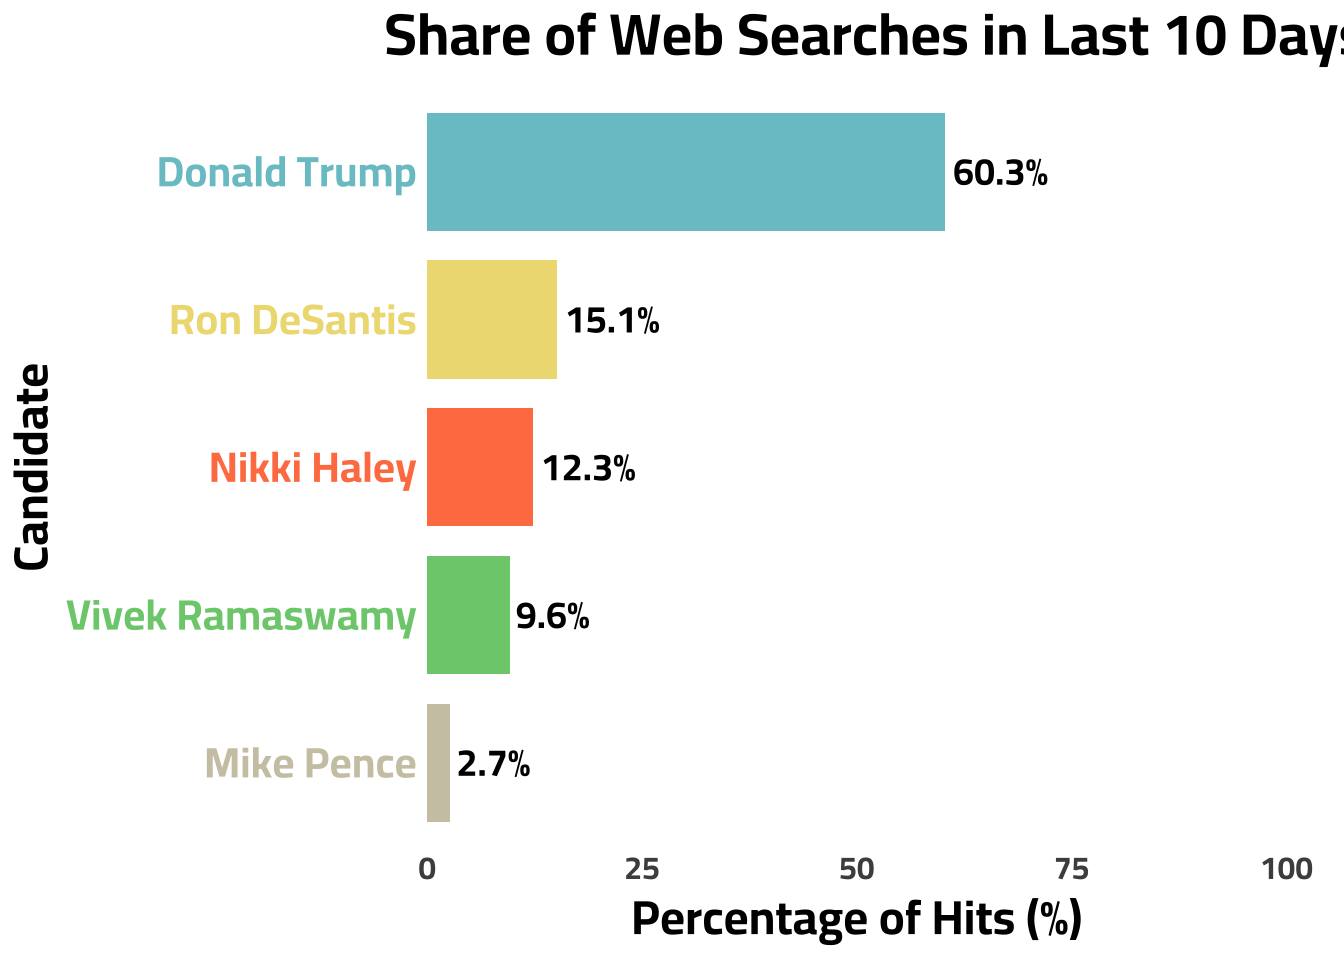
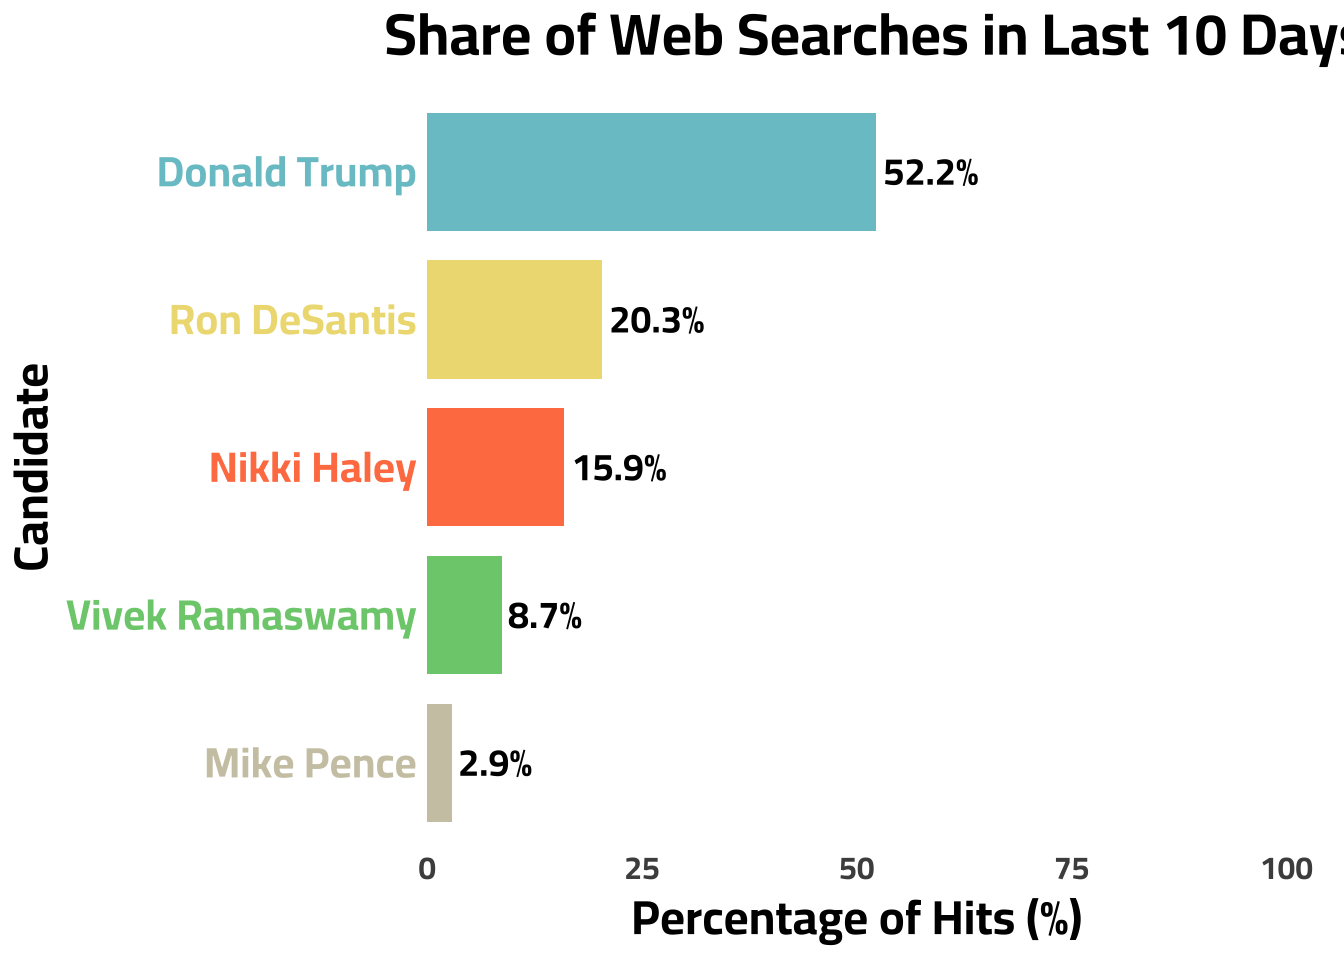
added disqus to resume post

diff --git a/_site/blog.html b/_site/blog.html
@@ -178,7 +178,7 @@ ul.task-list li input[type="checkbox"] {
 
 <div class="quarto-listing quarto-listing-container-default" id="listing-listing">
 <div class="list quarto-listing-default">
-<div class="quarto-post image-right" data-index="0" data-categories="Google Trends,Data Journalism,Politics,CICD" data-listing-date-sort="1696377600000" data-listing-file-modified-sort="1697373179184" data-listing-date-modified-sort="NaN" data-listing-reading-time-sort="7">
+<div class="quarto-post image-right" data-index="0" data-categories="Google Trends,Data Journalism,Politics,CICD" data-listing-date-sort="1696399200000" data-listing-file-modified-sort="1696406618792" data-listing-date-modified-sort="NaN" data-listing-reading-time-sort="7">
 <div class="thumbnail">
 <p><a href="./posts/primary_stream/index.html"> <img src="././about_files/primary_1.png" class="thumbnail-image"> </a></p>
 </div>
@@ -215,7 +215,7 @@ Oct 4, 2023
 </a>
 </div>
 </div>
-<div class="quarto-post image-right" data-index="1" data-categories="CICD,Quarto" data-listing-date-sort="1694044800000" data-listing-file-modified-sort="1697373179181" data-listing-date-modified-sort="NaN" data-listing-reading-time-sort="8">
+<div class="quarto-post image-right" data-index="1" data-categories="CICD,Quarto" data-listing-date-sort="1694066400000" data-listing-file-modified-sort="1696404983537" data-listing-date-modified-sort="NaN" data-listing-reading-time-sort="8">
 <div class="thumbnail">
 <p><a href="./posts/cicd_primary/index.html"> <img src="https://external-content.duckduckgo.com/iu/?u=https%3A%2F%2Fwww.adictosaltrabajo.com%2Fwp-content%2Fuploads%2F2020%2F10%2Fandroid-github-actions-setup-image-35b6a79fea4a7289acb6796cd4ad05b4.png&amp;f=1&amp;nofb=1&amp;ipt=b02a4ecfb6e2d666f35916b643a6f3e9907e880252d1e19d3eda47521252e9c3&amp;ipo=images" class="thumbnail-image"> </a></p>
 </div>
@@ -246,7 +246,7 @@ Sep 7, 2023
 </a>
 </div>
 </div>
-<div class="quarto-post image-right" data-index="2" data-categories="Life Hacks,Quarto" data-listing-date-sort="1688601600000" data-listing-file-modified-sort="1697373179185" data-listing-date-modified-sort="NaN" data-listing-reading-time-sort="3">
+<div class="quarto-post image-right" data-index="2" data-categories="Life Hacks,Quarto" data-listing-date-sort="1688623200000" data-listing-file-modified-sort="1688884981931" data-listing-date-modified-sort="NaN" data-listing-reading-time-sort="3">
 <div class="thumbnail">
 <p><a href="./posts/simple_analytics/index.html"> <img src="./about_files/Simple_Analytics.png" class="thumbnail-image"> </a></p>
 </div>
@@ -277,7 +277,7 @@ Jul 6, 2023
 </a>
 </div>
 </div>
-<div class="quarto-post image-right" data-index="3" data-categories="Data Journalism,Google Trends,Politics" data-listing-date-sort="1687824000000" data-listing-file-modified-sort="1697373179182" data-listing-date-modified-sort="NaN" data-listing-reading-time-sort="7">
+<div class="quarto-post image-right" data-index="3" data-categories="Data Journalism,Google Trends,Politics" data-listing-date-sort="1687845600000" data-listing-file-modified-sort="1688183490202" data-listing-date-modified-sort="NaN" data-listing-reading-time-sort="7">
 <div class="thumbnail">
 <p><a href="./posts/google_trends/index.html"> <img src="./about_files/byteman.png" class="thumbnail-image"> </a></p>
 </div>
@@ -311,7 +311,7 @@ Jun 27, 2023
 </a>
 </div>
 </div>
-<div class="quarto-post image-right" data-index="4" data-categories="Data Journalism,LDS,R" data-listing-date-sort="1675728000000" data-listing-file-modified-sort="1697373179183" data-listing-date-modified-sort="NaN" data-listing-reading-time-sort="4">
+<div class="quarto-post image-right" data-index="4" data-categories="Data Journalism,LDS,R" data-listing-date-sort="1675753200000" data-listing-file-modified-sort="1687907661581" data-listing-date-modified-sort="NaN" data-listing-reading-time-sort="4">
 <div class="thumbnail">
 <p><a href="./posts/income_myth/index.html"> <img src="./about_files/LDS_myth_0.png" class="thumbnail-image"> </a></p>
 </div>
@@ -345,7 +345,7 @@ Feb 7, 2023
 </a>
 </div>
 </div>
-<div class="quarto-post image-right" data-index="5" data-categories="Life Hacks,Quarto" data-listing-date-sort="1662076800000" data-listing-file-modified-sort="1697373179184" data-listing-date-modified-sort="NaN" data-listing-reading-time-sort="3">
+<div class="quarto-post image-right" data-index="5" data-categories="Life Hacks,Quarto" data-listing-date-sort="1662098400000" data-listing-file-modified-sort="1697860586451" data-listing-date-modified-sort="NaN" data-listing-reading-time-sort="4">
 <div class="thumbnail">
 <p><a href="./posts/resume/index.html"> <img src="./about_files/resume_2.png" class="thumbnail-image"> </a></p>
 </div>
@@ -376,7 +376,7 @@ Sep 2, 2022
 </a>
 </div>
 </div>
-<div class="quarto-post image-right" data-index="6" data-categories="Survey Research,Data Journalism,LDS" data-listing-date-sort="1646265600000" data-listing-file-modified-sort="1697373179180" data-listing-date-modified-sort="NaN" data-listing-reading-time-sort="7">
+<div class="quarto-post image-right" data-index="6" data-categories="Survey Research,Data Journalism,LDS" data-listing-date-sort="1646290800000" data-listing-file-modified-sort="1697077318240" data-listing-date-modified-sort="NaN" data-listing-reading-time-sort="7">
 <div class="thumbnail">
 <p><a href="./posts/7_facts/index.html"> <img src="https://www.ldstemple.pics/wp-content/uploads/washington-dc-temple-final-sunset-600x600.jpg" class="thumbnail-image"> </a></p>
 </div>
@@ -410,7 +410,7 @@ Mar 3, 2022
 </a>
 </div>
 </div>
-<div class="quarto-post image-right" data-index="7" data-categories="Data Journalism,R" data-listing-date-sort="1618012800000" data-listing-file-modified-sort="1697373179182" data-listing-date-modified-sort="NaN" data-listing-reading-time-sort="4">
+<div class="quarto-post image-right" data-index="7" data-categories="Data Journalism,R" data-listing-date-sort="1618034400000" data-listing-file-modified-sort="1662346251459" data-listing-date-modified-sort="NaN" data-listing-reading-time-sort="4">
 <div class="thumbnail">
 <p><a href="./posts/facebook_data/index.html"> <img src="./about_files/fb_icon" class="thumbnail-image"> </a></p>
 </div>
@@ -441,7 +441,7 @@ Apr 10, 2021
 </a>
 </div>
 </div>
-<div class="quarto-post image-right" data-index="8" data-categories="Data Journalism,R,Survey Research,LDS,Politics" data-listing-date-sort="1607472000000" data-listing-file-modified-sort="1697373179183" data-listing-date-modified-sort="NaN" data-listing-reading-time-sort="8">
+<div class="quarto-post image-right" data-index="8" data-categories="Data Journalism,R,Survey Research,LDS,Politics" data-listing-date-sort="1607497200000" data-listing-file-modified-sort="1688183467743" data-listing-date-modified-sort="NaN" data-listing-reading-time-sort="8">
 <div class="thumbnail">
 <p><a href="./posts/lds_gop/index.html"> <img src="./about_files/iu-3.jpeg" class="thumbnail-image"> </a></p>
 </div>
@@ -481,7 +481,7 @@ Dec 9, 2020
 </a>
 </div>
 </div>
-<div class="quarto-post image-right" data-index="9" data-categories="Data Journalism,R" data-listing-date-sort="1594339200000" data-listing-file-modified-sort="1697373179181" data-listing-date-modified-sort="NaN" data-listing-reading-time-sort="7">
+<div class="quarto-post image-right" data-index="9" data-categories="Data Journalism,R" data-listing-date-sort="1594360800000" data-listing-file-modified-sort="1662349784409" data-listing-date-modified-sort="NaN" data-listing-reading-time-sort="7">
 <div class="thumbnail">
 <p><a href="./posts/cars/index.html"> <img src="https://media.giphy.com/media/rUE9CTmsYMbbOz2MqD/giphy.gif" class="thumbnail-image"> </a></p>
 </div>
@@ -512,7 +512,7 @@ Jul 10, 2020
 </a>
 </div>
 </div>
-<div class="quarto-post image-right" data-index="10" data-categories="Data Journalism,R,Shiny" data-listing-date-sort="1591660800000" data-listing-file-modified-sort="1697373179183" data-listing-date-modified-sort="NaN" data-listing-reading-time-sort="7">
+<div class="quarto-post image-right" data-index="10" data-categories="Data Journalism,R,Shiny" data-listing-date-sort="1591682400000" data-listing-file-modified-sort="1662349889692" data-listing-date-modified-sort="NaN" data-listing-reading-time-sort="7">
 <div class="thumbnail">
 <p><a href="./posts/mobility/index.html"> <img src="./about_files/iu-2.jpeg" class="thumbnail-image"> </a></p>
 </div>

diff --git a/_site/projects.html b/_site/projects.html
@@ -178,7 +178,7 @@ ul.task-list li input[type="checkbox"] {
 
 <div class="quarto-listing quarto-listing-container-grid" id="listing-listing">
 <div class="list grid quarto-listing-cols-3">
-<div class="g-col-1" data-index="0" data-categories="Capstone,Python,Stats" data-listing-date-sort="1682899200000" data-listing-file-modified-sort="1697373179199" data-listing-date-modified-sort="NaN" data-listing-reading-time-sort="4">
+<div class="g-col-1" data-index="0" data-categories="Capstone,Python,Stats" data-listing-date-sort="1682920800000" data-listing-file-modified-sort="1696400410722" data-listing-date-modified-sort="NaN" data-listing-reading-time-sort="4">
 <a href="./projects/internet_archive/index.html" class="quarto-grid-link">
 <div class="quarto-grid-item card h-100 card-left">
 <p class="card-img-top">
@@ -211,7 +211,7 @@ May 1, 2023
 </div>
 </a>
 </div>
-<div class="g-col-1" data-index="1" data-categories="Python,Stats,Dataviz" data-listing-date-sort="1660867200000" data-listing-file-modified-sort="1697373179196" data-listing-date-modified-sort="NaN" data-listing-reading-time-sort="10">
+<div class="g-col-1" data-index="1" data-categories="Python,Stats,Dataviz" data-listing-date-sort="1660888800000" data-listing-file-modified-sort="1688953567658" data-listing-date-modified-sort="NaN" data-listing-reading-time-sort="10">
 <a href="./projects/bayesian_county/index.html" class="quarto-grid-link">
 <div class="quarto-grid-item card h-100 card-left">
 <p class="card-img-top">
@@ -244,7 +244,7 @@ Aug 19, 2022
 </div>
 </a>
 </div>
-<div class="g-col-1" data-index="2" data-categories="CI/CD,R,Dataviz" data-listing-date-sort="1636329600000" data-listing-file-modified-sort="1697373179196" data-listing-date-modified-sort="NaN" data-listing-reading-time-sort="3">
+<div class="g-col-1" data-index="2" data-categories="CI/CD,R,Dataviz" data-listing-date-sort="1636354800000" data-listing-file-modified-sort="1688953705886" data-listing-date-modified-sort="NaN" data-listing-reading-time-sort="3">
 <a href="./projects/covid_update/index.html" class="quarto-grid-link">
 <div class="quarto-grid-item card h-100 card-left">
 <p class="card-img-top">
@@ -277,7 +277,7 @@ Nov 8, 2021
 </div>
 </a>
 </div>
-<div class="g-col-1" data-index="3" data-categories="Dataviz,Stats,R" data-listing-date-sort="1600387200000" data-listing-file-modified-sort="1697373179198" data-listing-date-modified-sort="NaN" data-listing-reading-time-sort="2">
+<div class="g-col-1" data-index="3" data-categories="Dataviz,Stats,R" data-listing-date-sort="1600408800000" data-listing-file-modified-sort="1688953990386" data-listing-date-modified-sort="NaN" data-listing-reading-time-sort="2">
 <a href="./projects/election_model/index.html" class="quarto-grid-link">
 <div class="quarto-grid-item card h-100 card-left">
 <p class="card-img-top">
@@ -310,7 +310,7 @@ Sep 18, 2020
 </div>
 </a>
 </div>
-<div class="g-col-1" data-index="4" data-categories="R,Shiny" data-listing-date-sort="1596153600000" data-listing-file-modified-sort="1697373179200" data-listing-date-modified-sort="NaN" data-listing-reading-time-sort="2">
+<div class="g-col-1" data-index="4" data-categories="R,Shiny" data-listing-date-sort="1596175200000" data-listing-file-modified-sort="1688954007297" data-listing-date-modified-sort="NaN" data-listing-reading-time-sort="2">
 <a href="./projects/peanuts/index.html" class="quarto-grid-link">
 <div class="quarto-grid-item card h-100 card-left">
 <p class="card-img-top">
@@ -340,7 +340,7 @@ Jul 31, 2020
 </div>
 </a>
 </div>
-<div class="g-col-1" data-index="5" data-categories="Capstone,R,Stats" data-listing-date-sort="1587772800000" data-listing-file-modified-sort="1697373179202" data-listing-date-modified-sort="NaN" data-listing-reading-time-sort="6">
+<div class="g-col-1" data-index="5" data-categories="Capstone,R,Stats" data-listing-date-sort="1587794400000" data-listing-file-modified-sort="1689571784506" data-listing-date-modified-sort="NaN" data-listing-reading-time-sort="6">
 <a href="./projects/star_wars_capstone/index.html" class="quarto-grid-link">
 <div class="quarto-grid-item card h-100 card-left">
 <p class="card-img-top">

diff --git a/_site/posts/resume/index.html b/_site/posts/resume/index.html
@@ -225,7 +225,29 @@ I would recommend using RStudio as the tool for working with Quarto (same compan
 As a bonus, in the repository I have a shell script where you can see what actions I take to upload the new resume to my personal system and blog, and update the repositories.
 </li>
 </ul>
-<p>Feel free to message me with any questions</p>
+<p>Feel free to comment below if you have questions.</p>
+<div id="disqus_thread">
+
+</div>
+<script>
+    /**
+    *  RECOMMENDED CONFIGURATION VARIABLES: EDIT AND UNCOMMENT THE SECTION BELOW TO INSERT DYNAMIC VALUES FROM YOUR PLATFORM OR CMS.
+    *  LEARN WHY DEFINING THESE VARIABLES IS IMPORTANT: https://disqus.com/admin/universalcode/#configuration-variables    */
+    var disqus_config = function () {
+    this.page.url = 'https://alexbass.me/posts/resume/';  // Replace PAGE_URL with your page's canonical URL variable
+    this.page.identifier = 'resume'; // Replace PAGE_IDENTIFIER with your page's unique identifier variable
+    };
+    (function() { // DON'T EDIT BELOW THIS LINE
+    var d = document, s = d.createElement('script');
+    s.src = 'https://alexbassc.disqus.com/embed.js';
+    s.setAttribute('data-timestamp', +new Date());
+    (d.head || d.body).appendChild(s);
+    })();
+</script>
+<noscript>
+Please enable JavaScript to view the <a href="https://disqus.com/?ref_noscript">comments powered by Disqus.</a>
+</noscript>
+<script id="dsq-count-scr" src="//alexbassc.disqus.com/count.js" async=""></script>
 
 
 </section>

diff --git a/_site/posts/primary_stream/index.html b/_site/posts/primary_stream/index.html
@@ -181,7 +181,7 @@ Note
 </div>
 </div>
 <div class="callout-body-container callout-body">
-<p>This graph is updated on a daily basis to provide continuous context to the GOP Primary Election. This graph was last updated: 12:33:09 on 15 Oct 2023</p>
+<p>This graph is updated on a daily basis to provide continuous context to the GOP Primary Election. This graph was last updated: 21:57:03 on 20 Oct 2023</p>
 </div>
 </div>
 <div class="cell">
@@ -234,7 +234,7 @@ Note
 </div>
 </div>
 <div class="callout-body-container callout-body">
-<p>This graph is updated on a daily basis to provide continuous context to the GOP Primary Election. This graph was last updated: 12:33:17 on 15 Oct 2023</p>
+<p>This graph is updated on a daily basis to provide continuous context to the GOP Primary Election. This graph was last updated: 21:57:09 on 20 Oct 2023</p>
 </div>
 </div>
 <p>This graph is provided to give a barometer reading of a candidates <em>recent</em> popularity/news coverage.</p>
